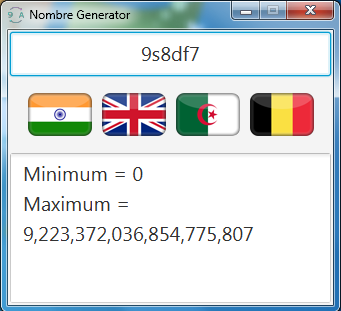
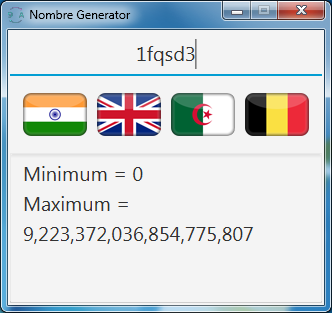
Some Minure Changes

diff --git a/GUI/src/application/application.css b/GUI/src/application/application.css
@@ -1,6 +1,25 @@
-/* JavaFX CSS - Leave this comment until you have at least create one rule which uses -fx-Property */
-
-.btntar {
-  -fx-background-repeat: no-repeat;
-  -fx-background-position: center;
+#mainpane{
+	-fx-background-image: url("background.png");
+    -fx-background-repeat: no-repeat;
 }
+#panel{
+	-fx-padding : 5 2 2 0;
+	-fx-spacing : 5 ;
+}
+Label:hover{
+    -fx-padding : 1 0 -1 0; 
+}
+#TxtInput{
+    -fx-background-color: -fx-text-box-border, -fx-background ;
+    -fx-background-insets: 0 , 0 0 2 0 ;
+    -fx-background-radius: 0 ;
+}
+#TxtInput:focused {
+    -fx-background-color: -fx-focus-color, -fx-background ;
+    
+}
+#TxtOutput  {
+    -fx-control-inner-background:  -fx-background ;  
+    -fx-background-insets: 0 , 0 0 2 0 ; 
+    -fx-background-radius: 0 ;
+ }
